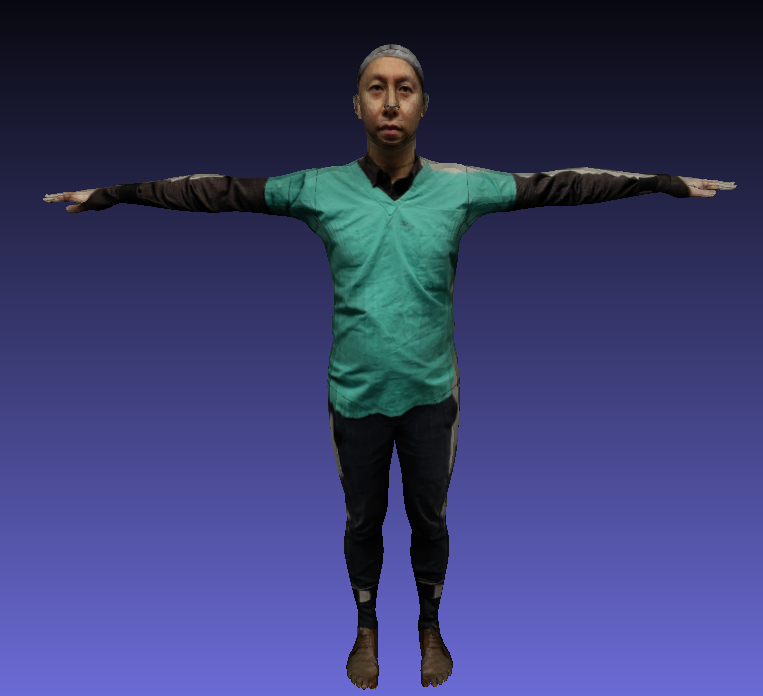
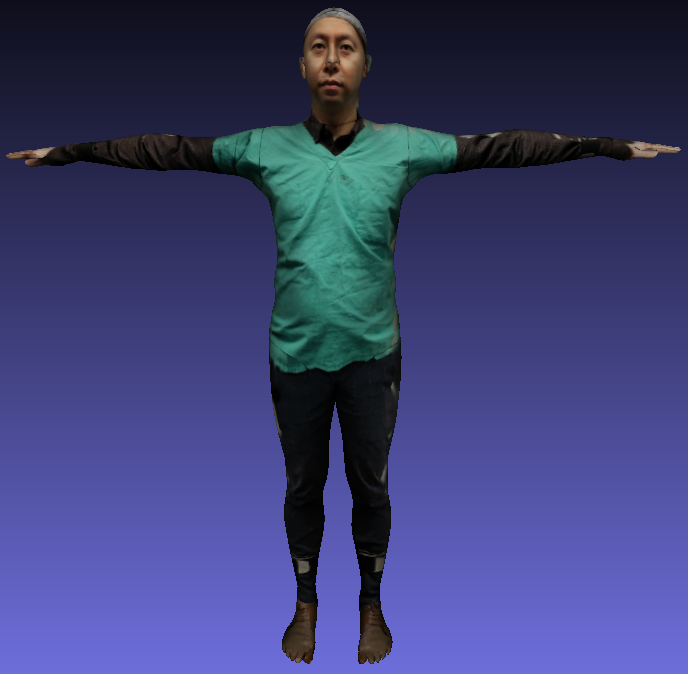
bug fix: pgn

Changed region(s): [[0.0, 0.0, 1.0, 0.997]]

diff --git a/textured_smplx.py b/textured_smplx.py
@@ -203,7 +203,9 @@ def combine_texture_SMPL(inPath, frames=None):
     if os.path.isfile(f_pgn):
         pgn = cv2.imread(f_pgn)
         pgn = pgn.astype(np.int).sum(-1) > 0
-        all_vis[pgn==0]
+        for i in range(4):
+            pgn = scipy.ndimage.binary_erosion(pgn)
+        all_vis[pgn==0]=0
 
     all_texture = cv2.imread(f_texture)
     for frame in frames[1:]:
@@ -218,7 +220,9 @@ def combine_texture_SMPL(inPath, frames=None):
         if os.path.isfile(f_pgn):
             pgn = cv2.imread(f_pgn)
             pgn = pgn.astype(np.int).sum(-1) > 0
-            vis[pgn==0]   
+            for i in range(4):
+                pgn = scipy.ndimage.binary_erosion(pgn)
+            vis[pgn==0]=0 
             
         texture = cv2.imread(f_texture)
         select = (~all_vis)&vis
